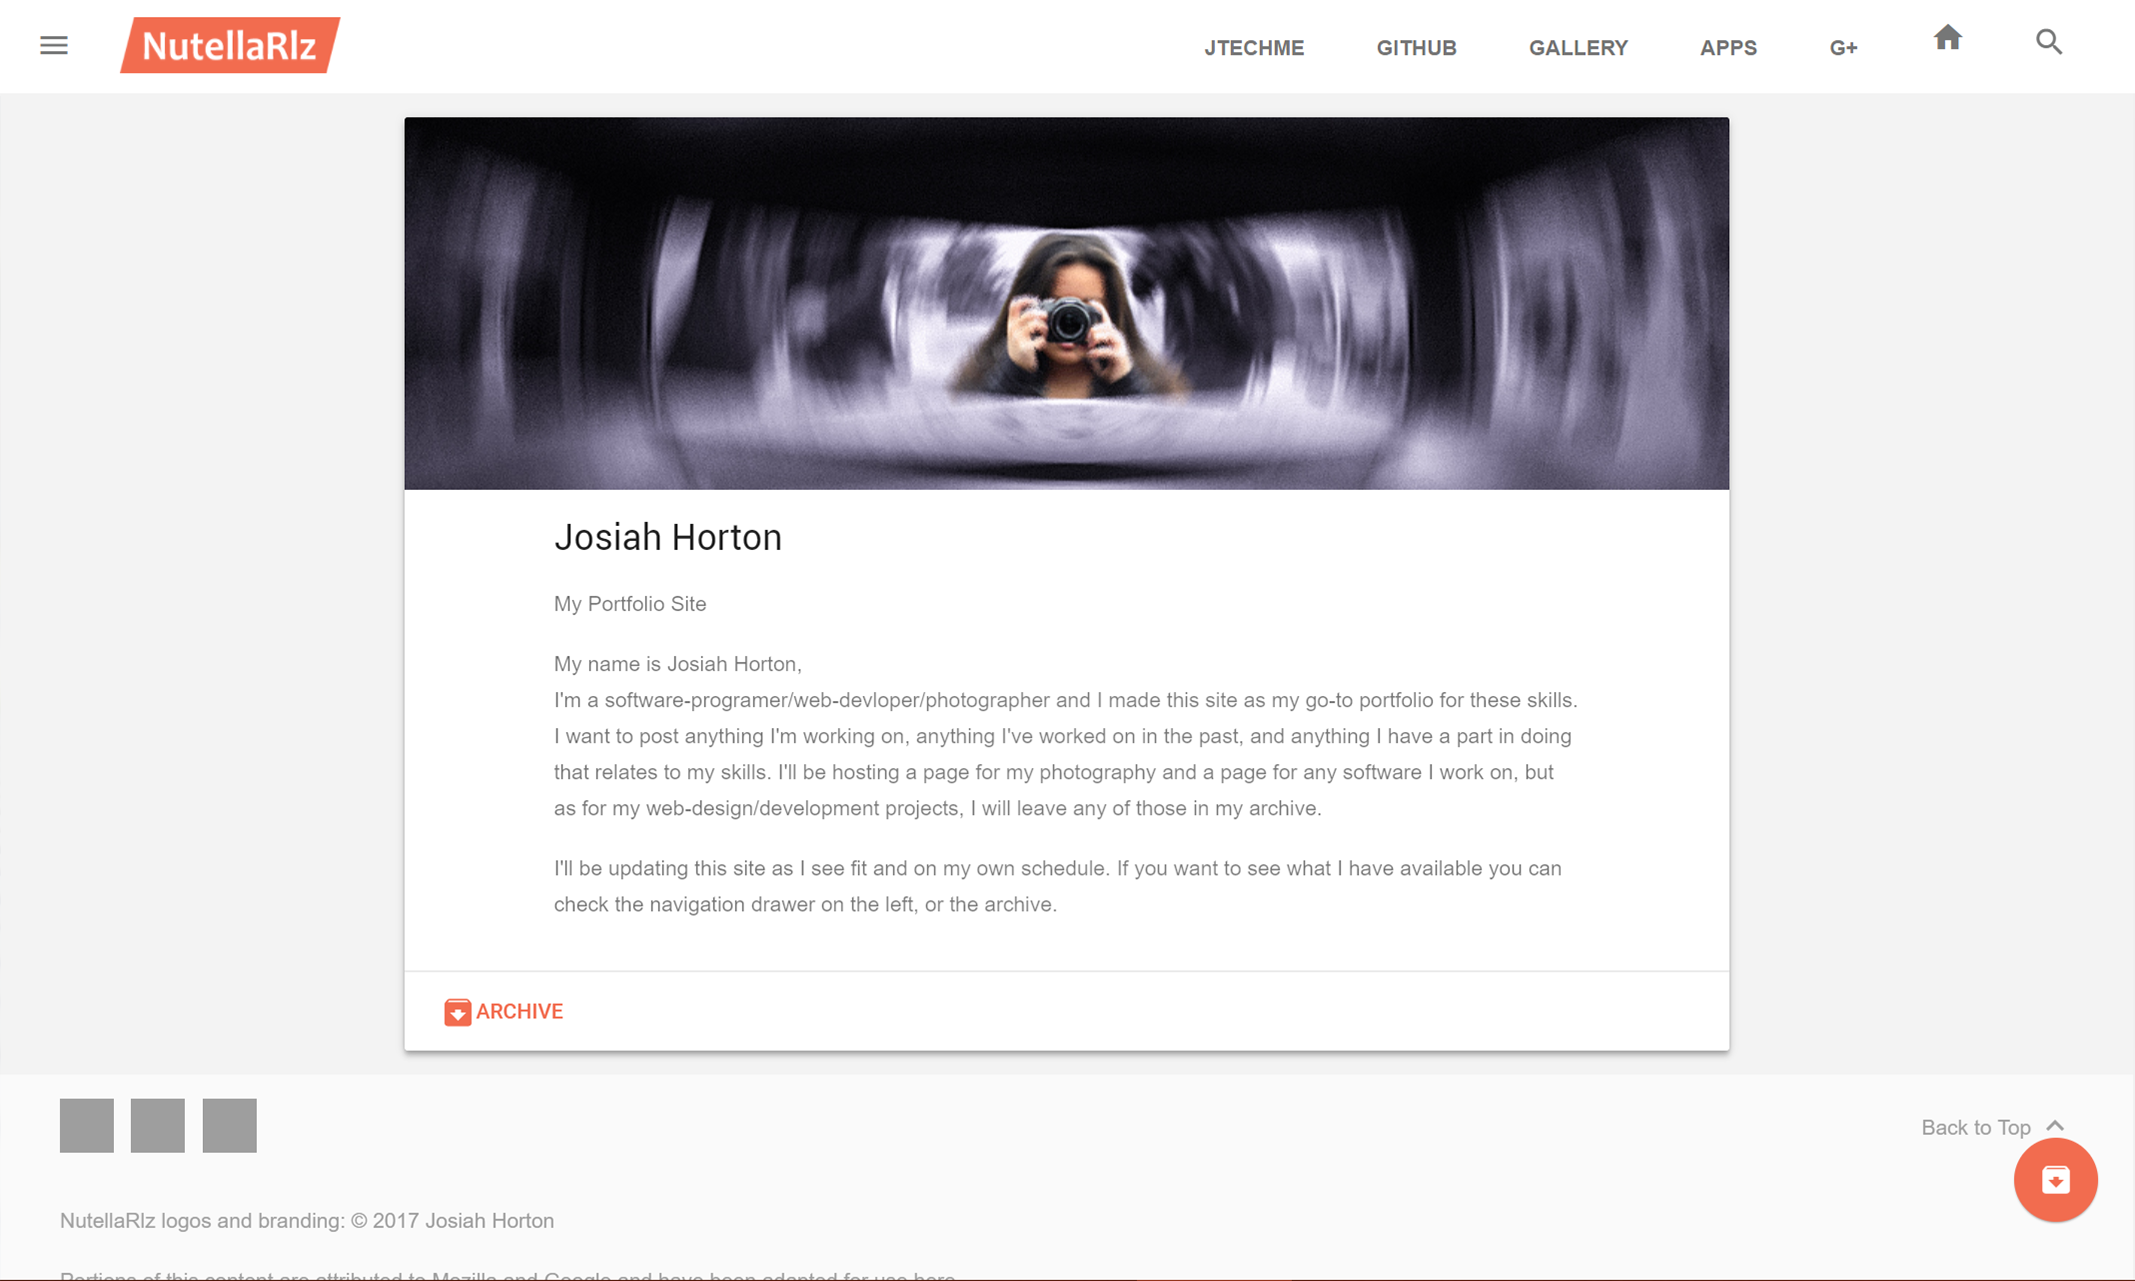
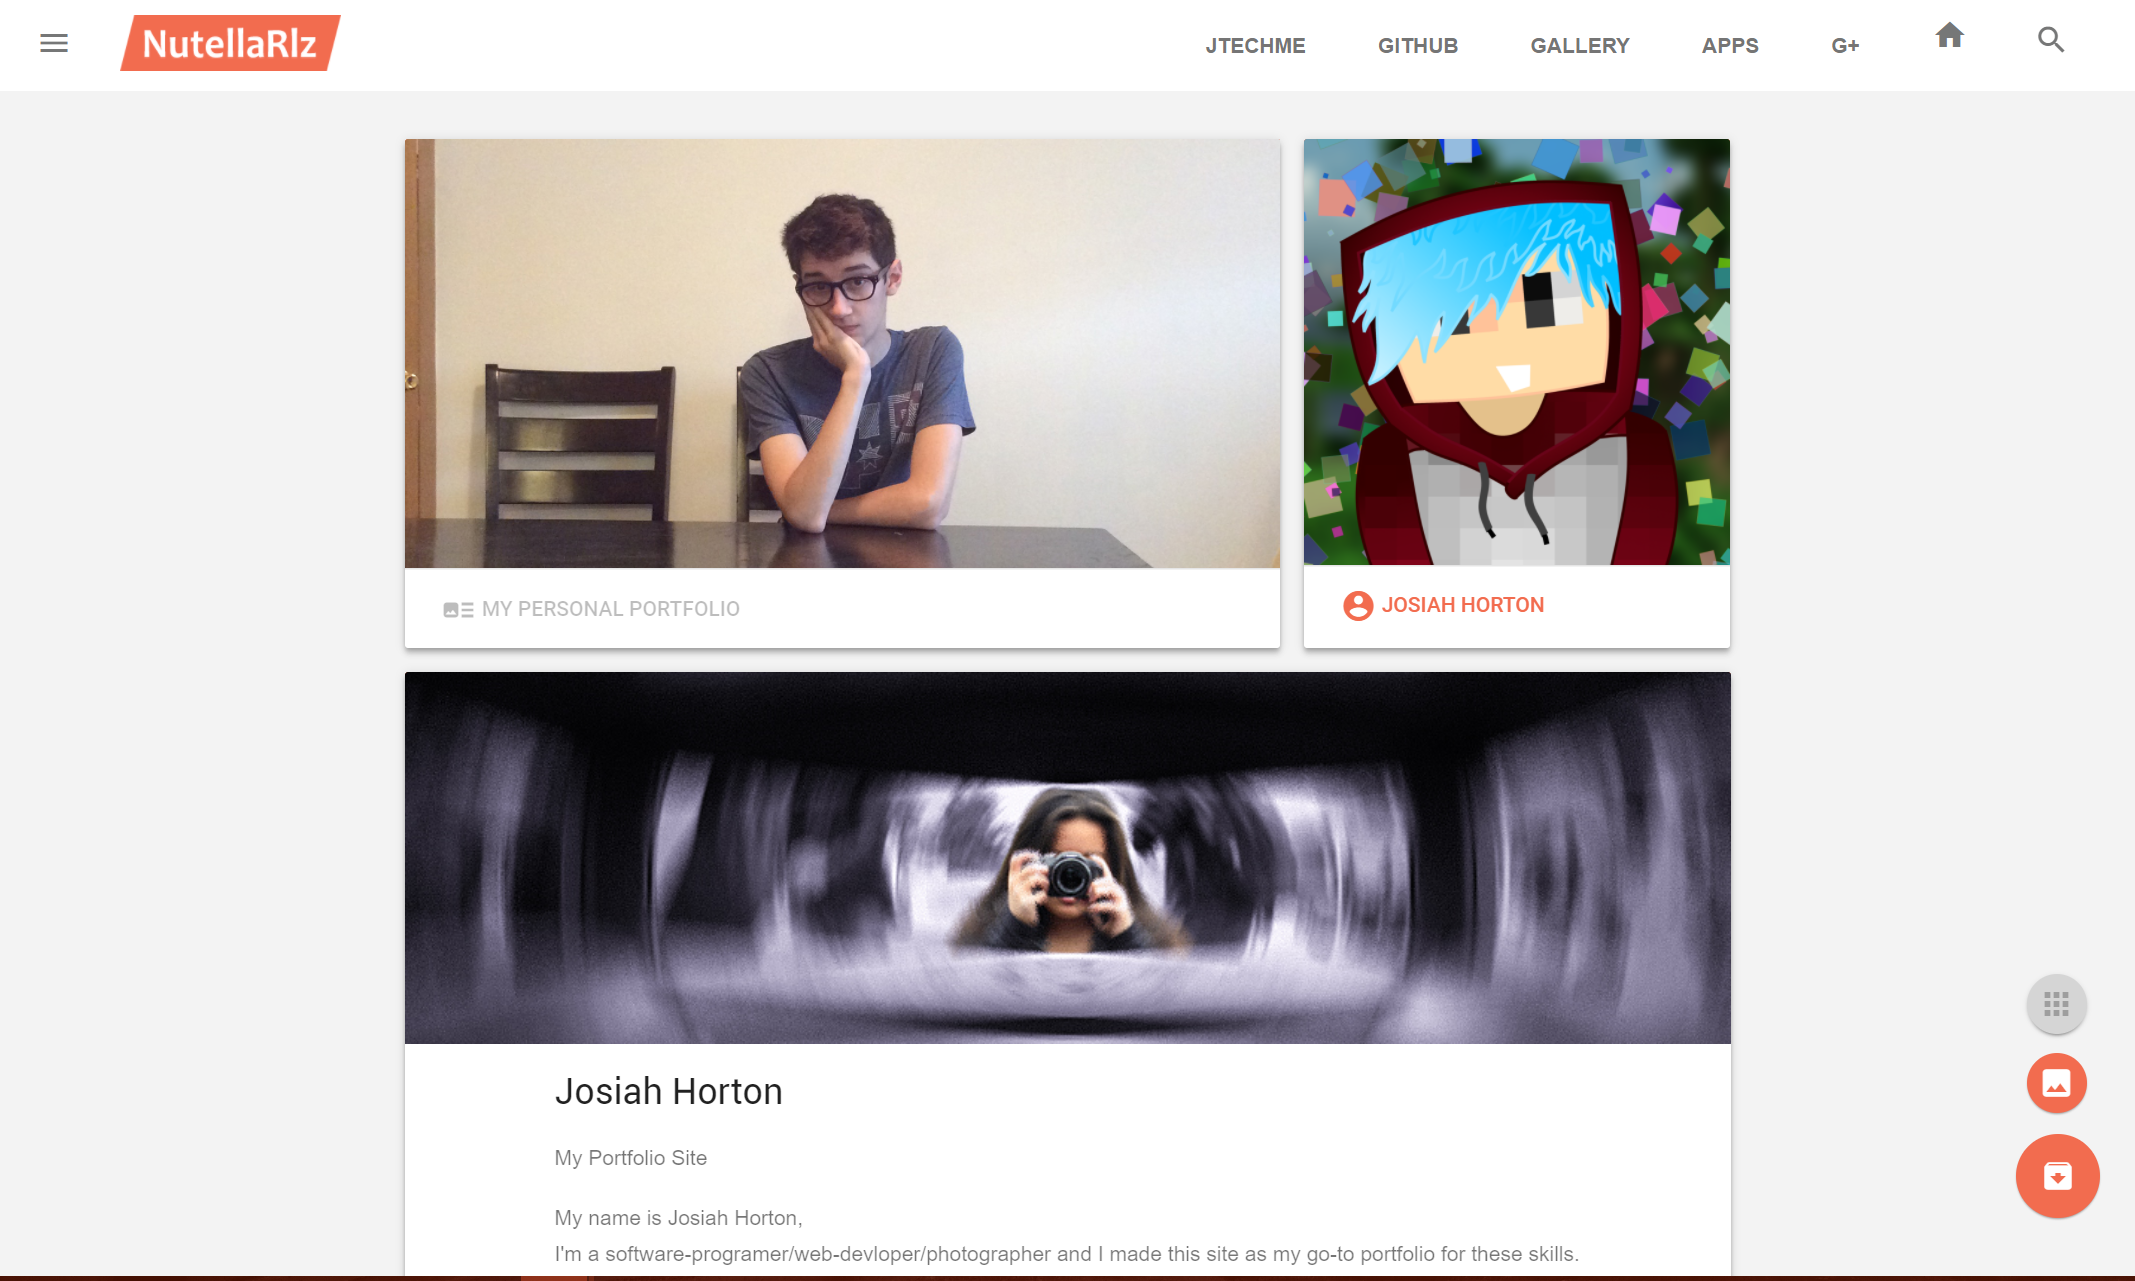
update archive links for v1.0 inclusion

diff --git a/archive/index.html b/archive/index.html
@@ -179,6 +179,14 @@
                       <td class="mdl-data-table__cell--non-numeric"><a href="https://nutellarlz.github.io/" class="mdl-button mdl-button--colored mdl-js-button mdl-js-ripple-effect mdl-button--accent">
                           nutellarlz.github.io
                         <span class="mdl-button__ripple-container"><span class="mdl-ripple"></span></span></a></td>
+                      <td style="color:grey;">v1.1</td>
+                      <td style="color:grey;">1/3/2018</td>
+                    </tr>
+				    <tr>
+					  <td style="color:grey;"><i class="material-icons">folder_open</i></td>
+                      <td class="mdl-data-table__cell--non-numeric"><a href="v1.0" class="mdl-button mdl-button--colored mdl-js-button mdl-js-ripple-effect mdl-button--accent">
+                          nutellarlz.github.io
+                        <span class="mdl-button__ripple-container"><span class="mdl-ripple"></span></span></a></td>
                       <td style="color:grey;">v1.0</td>
                       <td style="color:grey;">10/25/2017</td>
                     </tr>
@@ -209,7 +217,7 @@
                   </tbody>
                 </table>
 				
-				<div id="v1.0" class="mdl-cell mdl-cell--6-col mdl-cell--4-col-tablet mdl-card mdl-shadow--4dp">
+				<div id="vX.X" class="mdl-cell mdl-cell--6-col mdl-cell--4-col-tablet mdl-card mdl-shadow--4dp">
                     <div class="mdl-card__title">
                         <h2 class="mdl-card__title-text">Current Version</h2>
                     </div>
@@ -217,7 +225,7 @@
                         <a href="https://nutellarlz.github.io/"> <img class="article-image" src=" images/site-pic.png" border="0" alt=""></a>
                     </div>
                     <div class="mdl-card__supporting-text no-bottom-padding">
-                        <span>Version 1.0</span>
+                        <span>Version 1.1</span>
                         <div id="1_0link" class=" icon material-icons portfolio-share-btn" tabindex="0">link</div>
                         <div for="1_0link" class="mdl-tooltip">Linked in the archive</div>
                     </div>
@@ -225,6 +233,32 @@
                         <a href="https://nutellarlz.github.io" class="mdl-button mdl-button--colored mdl-js-button mdl-js-ripple-effect mdl-button--accent">
                           Current site
                         <span class="mdl-button__ripple-container"><span class="mdl-ripple"></span></span></a>
+                    </div>
+                </div>
+				
+				<div id="v1.0" class="mdl-cell mdl-cell--6-col mdl-cell--4-col-tablet mdl-card mdl-shadow--4dp">
+                    <div class="mdl-card__title">
+                        <h2 class="mdl-card__title-text">Archived Version 1.0</h2>
+                    </div>
+                    <div class="mdl-card__media">
+                        <a href="v1.0"> <img class="article-image" src="v1.0/site-pic.png" border="0" alt=""></a>
+                    </div>
+                    <div class="mdl-card__supporting-text no-bottom-padding">
+                        <span>Version 1.0</span>
+                        <div id="0_2link" class=" icon material-icons portfolio-share-btn" tabindex="0">archive</div>
+                        <div for="0_2link" class="mdl-tooltip">Archived site</div>
+                    </div>
+                    <!--<div class="mdl-card__supporting-text">
+                        <p>JumpGo for Android is available from many Android marketplaces, but 
+						for simplicity we're just linking the Play Store listing.</p>
+                    </div>-->
+                    <div class="mdl-card__actions mdl-card--border">
+                        <a href="v1.0" class="mdl-button mdl-button--colored mdl-js-button mdl-js-ripple-effect mdl-button--accent">
+                          Site version 1.0
+                        <span class="mdl-button__ripple-container"><span class="mdl-ripple"></span></span></a>
+						<!--<a href='https://play.google.com/store/apps/details?id=com.jtechme.jumpgo&pcampaignid=MKT-Other-global-all-co-prtnr-py-PartBadge-Mar2515-1'>
+						<img style="width:155px; height:60px;" alt='Get it on Google Play' src='https://play.google.com/intl/en_us/badges/images/generic/en_badge_web_generic.png'/>
+						</a>-->
                     </div>
                 </div>
 				

diff --git a/archive/v1.0/index.html b/archive/v1.0/index.html
@@ -52,7 +52,7 @@
 	<link rel="stylesheet" href="material.min.css">
     <link rel="stylesheet" href="styles.css">
 	<link rel="stylesheet" href="styles.portfolio.css">
-	<!--<link rel="stylesheet" href="https://nutellarlz.github.io/styles.css">-->
+	<!--<link rel="stylesheet" href="/styles.css">-->
 	<!--<link rel="stylesheet" href="styles.blog.css">-->
     <link rel="stylesheet" type="text/css" href="css/tabzilla.css" media="screen">
     <link rel="stylesheet" type="text/css" href="css/tabzilla2.css" media="screen">
@@ -99,7 +99,7 @@
 
       <div class="android-header mdl-layout__header mdl-layout__header--waterfall" id="navbar-header">
         <div class="mdl-layout__header-row">
-		<div id="tabzilla"> <a href="https://nutellarlz.github.io">NutellaRlz</a> </div>
+		<div id="tabzilla"> <a href="">NutellaRlz</a> </div>
 		<!--<div id="tabzilla2"> <a href="">JumpGo</a> </div>-->
           <!--<span class="android-title mdl-layout-title">
             <img class="android-logo-image" src="images/android-logo.png">
@@ -126,7 +126,7 @@
                 <a class="mdl-navigation__link mdl-typography--text-uppercase" href="https://plus.google.com/+JoeHorton">G+</a>
                 <!--<a class="mdl-navigation__link mdl-typography--text-uppercase" href="https://joehorton99.blogspot.com/">Blog</a>-->
                 <!--<a class="mdl-navigation__link mdl-typography--text-uppercase" href="mailto:jtechme.org@gmail.com">Contact</a>-->
-                <a class="mdl-navigation__link mdl-typography--text-uppercase" href="https://nutellarlz.github.io">
+                <a class="mdl-navigation__link mdl-typography--text-uppercase" href="">
 				<i class="material-icons">home</i>
 				</a>
             </nav>
@@ -159,7 +159,7 @@
 		  <a class="mdl-navigation__link" href="">Apps</a>
           <!--<a class="mdl-navigation__link" href="mailto:jtechme.org@gmail.com">Contact</a>-->
           <!--<a class="mdl-navigation__link" href="">Core</a>-->
-          <a class="mdl-navigation__link" href="https://nutellarlz.github.io">Home</a>
+          <a class="mdl-navigation__link" href="">Home</a>
           <div class="android-drawer-separator"></div>
           <span class="mdl-navigation__link" href=""><i class="material-icons">apps</i> Apps</span>
           <!--<a class="mdl-navigation__link" href="">5.0</a>-->

diff --git a/archive/v1.0/404.html b/archive/v1.0/404.html
@@ -73,7 +73,7 @@
 
       <div class="android-header mdl-layout__header mdl-layout__header--waterfall" id="navbar-header">
         <div class="mdl-layout__header-row">
-		<div id="tabzilla"> <a href="https://nutellarlz.github.io">NutellaRlz</a> </div>
+		<div id="tabzilla"> <a href="../v1.0">NutellaRlz</a> </div>
 		<!--<div id="tabzilla2"> <a href="">JumpGo</a> </div>-->
           <!--<span class="android-title mdl-layout-title">
             <img class="android-logo-image" src="images/android-logo.png">
@@ -100,7 +100,7 @@
                 <a class="mdl-navigation__link mdl-typography--text-uppercase" href="https://plus.google.com/+JoeHorton">G+</a>
                 <!--<a class="mdl-navigation__link mdl-typography--text-uppercase" href="https://joehorton99.blogspot.com/">Blog</a>-->
                 <!--<a class="mdl-navigation__link mdl-typography--text-uppercase" href="mailto:jtechme.org@gmail.com">Contact</a>-->
-                <a class="mdl-navigation__link mdl-typography--text-uppercase" href="https://nutellarlz.github.io">
+                <a class="mdl-navigation__link mdl-typography--text-uppercase" href="../v1.0">
 				<i class="material-icons">home</i>
 				</a>
             </nav>
@@ -133,7 +133,7 @@
 		  <a class="mdl-navigation__link" href="">Apps</a>
           <!--<a class="mdl-navigation__link" href="mailto:jtechme.org@gmail.com">Contact</a>-->
           <!--<a class="mdl-navigation__link" href="">Core</a>-->
-          <a class="mdl-navigation__link" href="https://nutellarlz.github.io">Home</a>
+          <a class="mdl-navigation__link" href="../v1.0">Home</a>
           <div class="android-drawer-separator"></div>
           <span class="mdl-navigation__link" href=""><i class="material-icons">apps</i> Apps</span>
           <!--<a class="mdl-navigation__link" href="">5.0</a>-->
@@ -237,7 +237,7 @@
         </footer>
       </div>
     </div>
-    <a href="https://nutellarlz.github.io/" target="_blank" id="archive" class="mdl-button mdl-js-ripple-effect mdl-js-button mdl-button--fab mdl-button--colored">
+    <a href="../v1.0/" target="_blank" id="archive" class="mdl-button mdl-js-ripple-effect mdl-js-button mdl-button--fab mdl-button--colored">
 	<i class="material-icons">home</i>
 	</a>
 	<div for="archive" class="mdl-tooltip mdl-tooltip--top mdl-tooltip--large">

diff --git a/archive/v1.0/gallery/index.html b/archive/v1.0/gallery/index.html
@@ -78,7 +78,7 @@
 
       <div class="android-header mdl-layout__header mdl-layout__header--waterfall" id="navbar-header">
         <div class="mdl-layout__header-row">
-		<div id="tabzilla"> <a href="https://nutellarlz.github.io">NutellaRlz</a> </div>
+		<div id="tabzilla"> <a href="../../v1.0">NutellaRlz</a> </div>
 		<div id="tabzilla2"> <a href="">Gallery</a> </div>
 		<!--<div id="tabzilla2"> <a href="">JumpGo</a> </div>-->
           <!--<span class="android-title mdl-layout-title">
@@ -106,7 +106,7 @@
                 <a class="mdl-navigation__link mdl-typography--text-uppercase" href="https://plus.google.com/+JoeHorton">G+</a>
                 <!--<a class="mdl-navigation__link mdl-typography--text-uppercase" href="https://joehorton99.blogspot.com/">Blog</a>-->
                 <!--<a class="mdl-navigation__link mdl-typography--text-uppercase" href="mailto:jtechme.org@gmail.com">Contact</a>-->
-                <a class="mdl-navigation__link mdl-typography--text-uppercase" href="https://nutellarlz.github.io">
+                <a class="mdl-navigation__link mdl-typography--text-uppercase" href="../../v1.0">
 				<i class="material-icons">home</i>
 				</a>
             </nav>
@@ -139,7 +139,7 @@
 		  <a class="mdl-navigation__link" href="">Apps</a>
           <!--<a class="mdl-navigation__link" href="mailto:jtechme.org@gmail.com">Contact</a>-->
           <!--<a class="mdl-navigation__link" href="">Core</a>-->
-          <a class="mdl-navigation__link" href="https://nutellarlz.github.io">Home</a>
+          <a class="mdl-navigation__link" href="../../v1.0">Home</a>
           <div class="android-drawer-separator"></div>
           <span class="mdl-navigation__link" href=""><i class="material-icons">apps</i> Apps</span>
           <!--<a class="mdl-navigation__link" href="">5.0</a>-->
